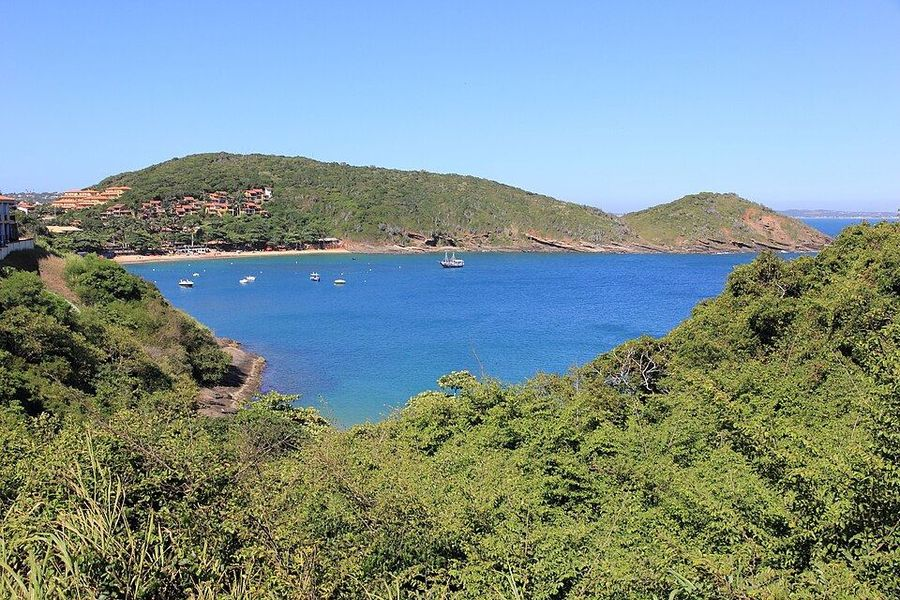
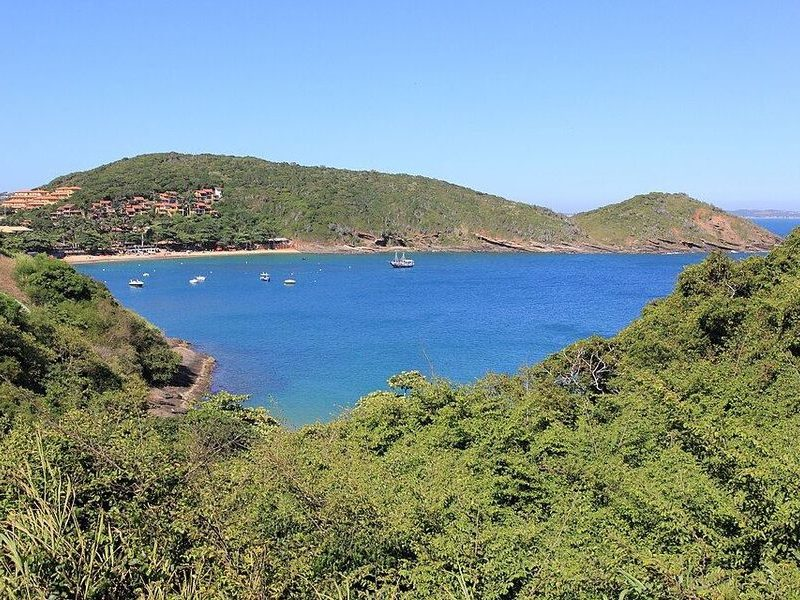
Fotos do roteiro no mesmo formato 4:3 e janela da parada sem estourar a tela
Claude-Session: https://claude.ai/code/session_01MNgW9Kn1R4BCnAd9qE35dA

diff --git a/index.html b/index.html
@@ -274,10 +274,10 @@ html.is-app #hdr-login{display:none}
 .rt-list button{font:inherit;color:inherit;background:none;border:0;padding:0;text-align:left;cursor:pointer;text-decoration:underline;text-decoration-color:var(--line);text-underline-offset:3px}
 .rt-list button:hover{color:var(--sea);text-decoration-color:currentColor}
 .rt-tap{margin:0 0 8px;font-size:14px;color:var(--muted)}
-.stop-dlg{border:0;padding:0;border-radius:18px;width:min(440px,calc(100vw - 32px));background:var(--surface);color:var(--ink);box-shadow:0 20px 60px rgba(0,0,0,.35);overflow:hidden}
+.stop-dlg{border:0;padding:0;border-radius:18px;width:min(440px,calc(100vw - 32px));max-height:calc(100dvh - 32px);overflow-y:auto;background:var(--surface);color:var(--ink);box-shadow:0 20px 60px rgba(0,0,0,.35);overflow:hidden}
 .stop-dlg::backdrop{background:rgba(4,24,32,.6)}
-.stop-ph{aspect-ratio:4/3;background:var(--chip);display:grid;place-items:center;color:var(--muted);position:relative}
-.stop-ph img{width:100%;height:100%;object-fit:cover;display:block}
+.stop-ph{aspect-ratio:4/3;max-height:42vh;width:100%;overflow:hidden;background:var(--chip);color:var(--muted);position:relative}
+.stop-ph img{position:absolute;inset:0;width:100%;height:100%;object-fit:cover;display:block}
 .stop-body{display:flex;gap:12px;padding:18px 18px 6px}
 .stop-body h3{margin:0 0 4px;font:700 20px/1.2 var(--display)}.stop-body p{margin:0;color:var(--muted)}
 .stop-n{flex:none;width:30px;height:30px;border-radius:50%;display:grid;place-items:center;background:var(--sea-deep);color:#fff;font:700 14px/1 var(--body)}
@@ -722,7 +722,7 @@ function routeSection(){
 function openStop(i){
   const dl=document.getElementById("stop-dlg"); if(!dl) return;
   const n=ROUTE.length; i=(i+n)%n; const ph=stopPhoto(i), nm=ROUTE[i][0];
-  dl.innerHTML = `${ph?`<div class="stop-ph"><img src="${ph}.jpg?v=3" alt="${nm}"></div>`:""}
+  dl.innerHTML = `${ph?`<div class="stop-ph"><img src="${ph}.jpg?v=4" alt="${nm}"></div>`:""}
     <div class="stop-body"><span class="stop-n">${i+1}</span><div><h3 id="stop-name">${nm}</h3><p>${(UI[lang].stops||UI.pt.stops)[i]||""}</p>${ph&&ROUTE_CREDITS[i]?`<small class="stop-cr">${t("photoBy")}: <a href="${ROUTE_CREDITS[i][1]}" target="_blank" rel="noopener nofollow">${ROUTE_CREDITS[i][0]}</a></small>`:""}</div></div>
     <div class="stop-nav"><button type="button" data-go="${i-1}" aria-label="${t("stopPrev")}">‹</button><button type="button" class="stop-x">${t("stopClose")}</button><button type="button" data-go="${i+1}" aria-label="${t("stopNext")}">›</button></div>`;
   dl.querySelectorAll("[data-go]").forEach(b=>b.onclick=()=>openStop(+b.dataset.go));
@@ -761,7 +761,7 @@ function bindRoute(){
   const pk=app.querySelector(".rt-peek");
   if(pk && matchMedia("(hover:hover)").matches) app.querySelectorAll(".rt-map-wrap .pin").forEach(p=>{
     const i=+p.dataset.stop, ph=stopPhoto(i);
-    p.onmouseenter=()=>{ if(!ph) return; pk.querySelector("img").src=ph+".jpg?v=3"; pk.querySelector("b").innerHTML=`<span>${i+1}</span>${ROUTE[i][0]}`; pk.classList.add("show"); };
+    p.onmouseenter=()=>{ if(!ph) return; pk.querySelector("img").src=ph+".jpg?v=4"; pk.querySelector("b").innerHTML=`<span>${i+1}</span>${ROUTE[i][0]}`; pk.classList.add("show"); };
     p.onmouseleave=()=>pk.classList.remove("show");
   });
   app.querySelectorAll("[data-stop]").forEach(el=>{ el.onclick=()=>openStop(+el.dataset.stop);
